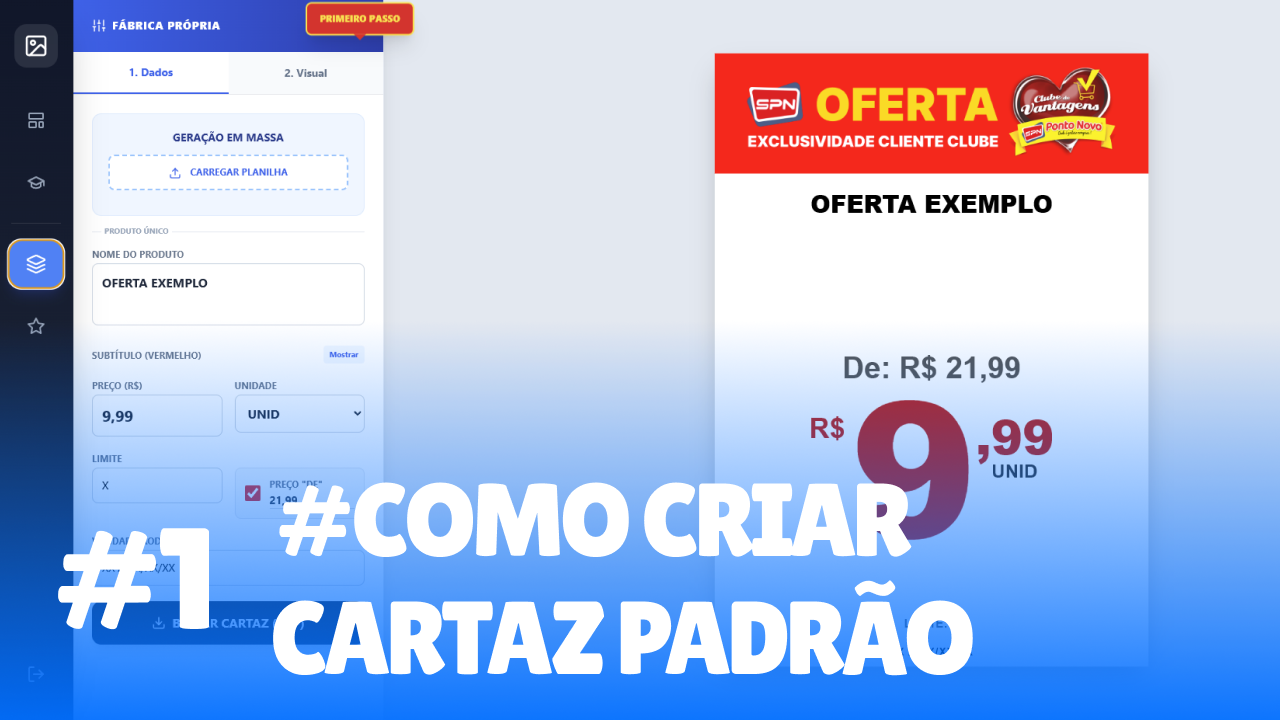
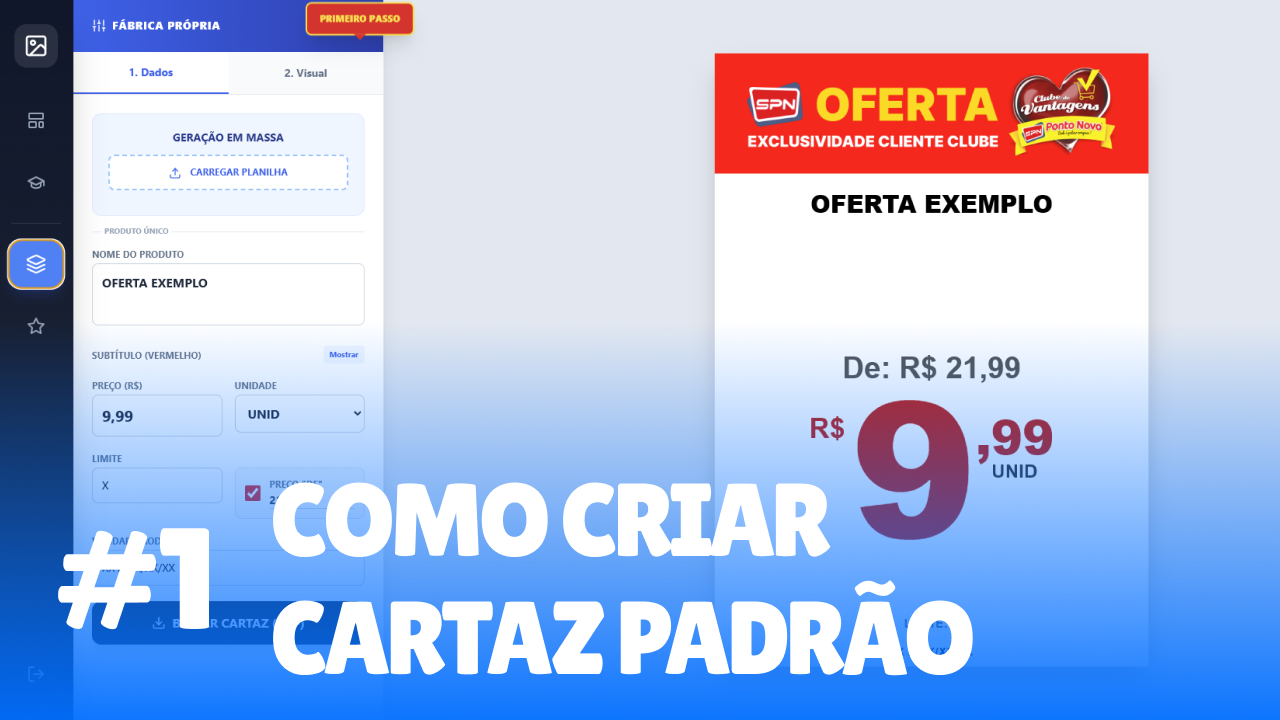
Finalização: Correção de Margens e Quebra de Linha (Enter)

Changed region(s): [[0.4688, 0.6722, 0.7188, 0.7944], [0.1875, 0.6722, 0.4375, 0.7944]]

diff --git a/gerador-cartazes/src/App.jsx b/gerador-cartazes/src/App.jsx
@@ -229,21 +229,21 @@ const LearningPath = () => {
     const tutorials = [
       { 
         id: 1, 
-        title: "# 1 COMO CRIAR CARTAZ PADRÃO", 
+        title: "# 1 - COMO CRIAR CARTAZ PADRÃO", 
         thumb: "/assets/thumb-cartaz.png", 
         youtubeId: "4374wDa90_E" 
       },
       { 
         id: 2, 
-        title: "#2 - COMO IMPRIMIR 2 POR FOLHA", 
+        title: "# 2 - COMO IMPRIMIR 2 POR FOLHA", 
         thumb: "/assets/thumb-2por.png", 
         youtubeId: "vNSrtSsKeLQ" 
       },
       { 
         id: 3, 
-        title: "EM BREVE", 
-        thumb: "/assets/thumb-print.png", 
-        youtubeId: "dQw4w9WgXcQ" 
+        title: "# 3 - MEGA 10", 
+        thumb: "/assets/thumb-mega10.png", 
+        youtubeId: "zGmBddxDTJ8" 
       },
         { 
         id: 4, 
@@ -358,7 +358,7 @@ const PosterFactory = ({ mode, onAdminReady, currentUser, factoryType = 'default
   useEffect(() => { 
     if (presets.length > 0 && !autoLoaded) {
         let targetName = 'PADRÃO VERTICAL';
-        if (factoryType === 'mega10') targetName = 'MEGA 10 PADRÃO'; // Alterado para MEGA 10 PADRÃO
+        if (factoryType === 'mega10') targetName = 'MEGA 10 VERTICAL'; // Alterado para MEGA 10 PADRÃO
         
         const p = presets.find(item => item.name.trim().toUpperCase() === targetName);
         if (p) { 
